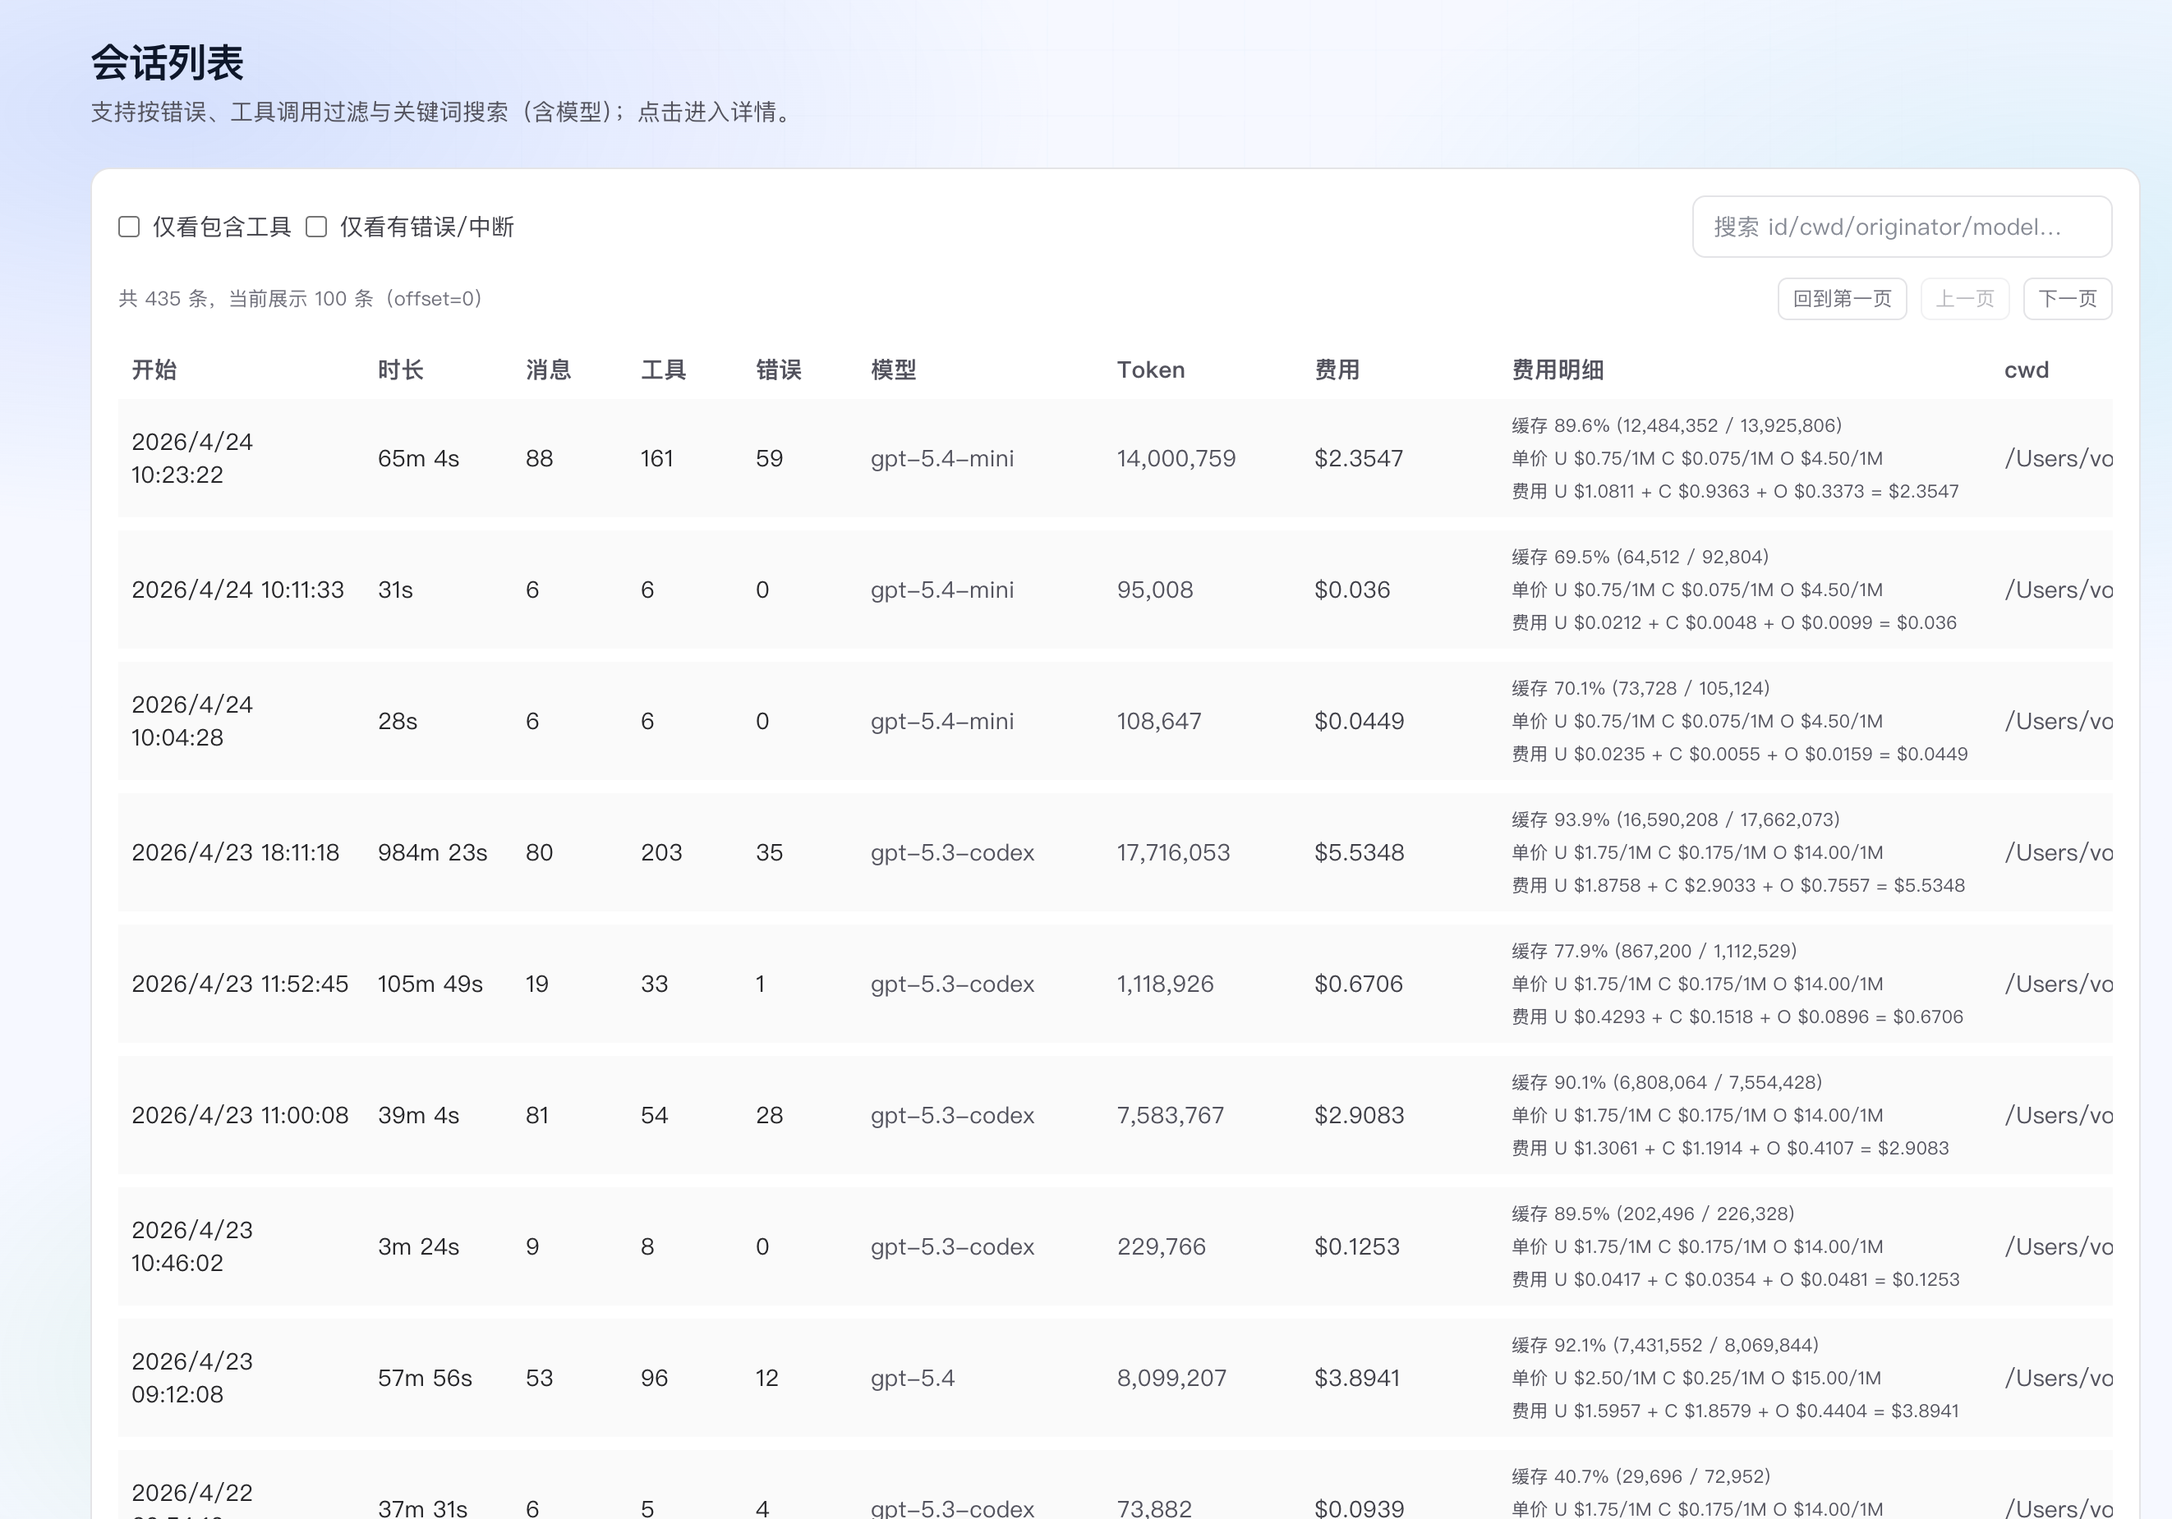
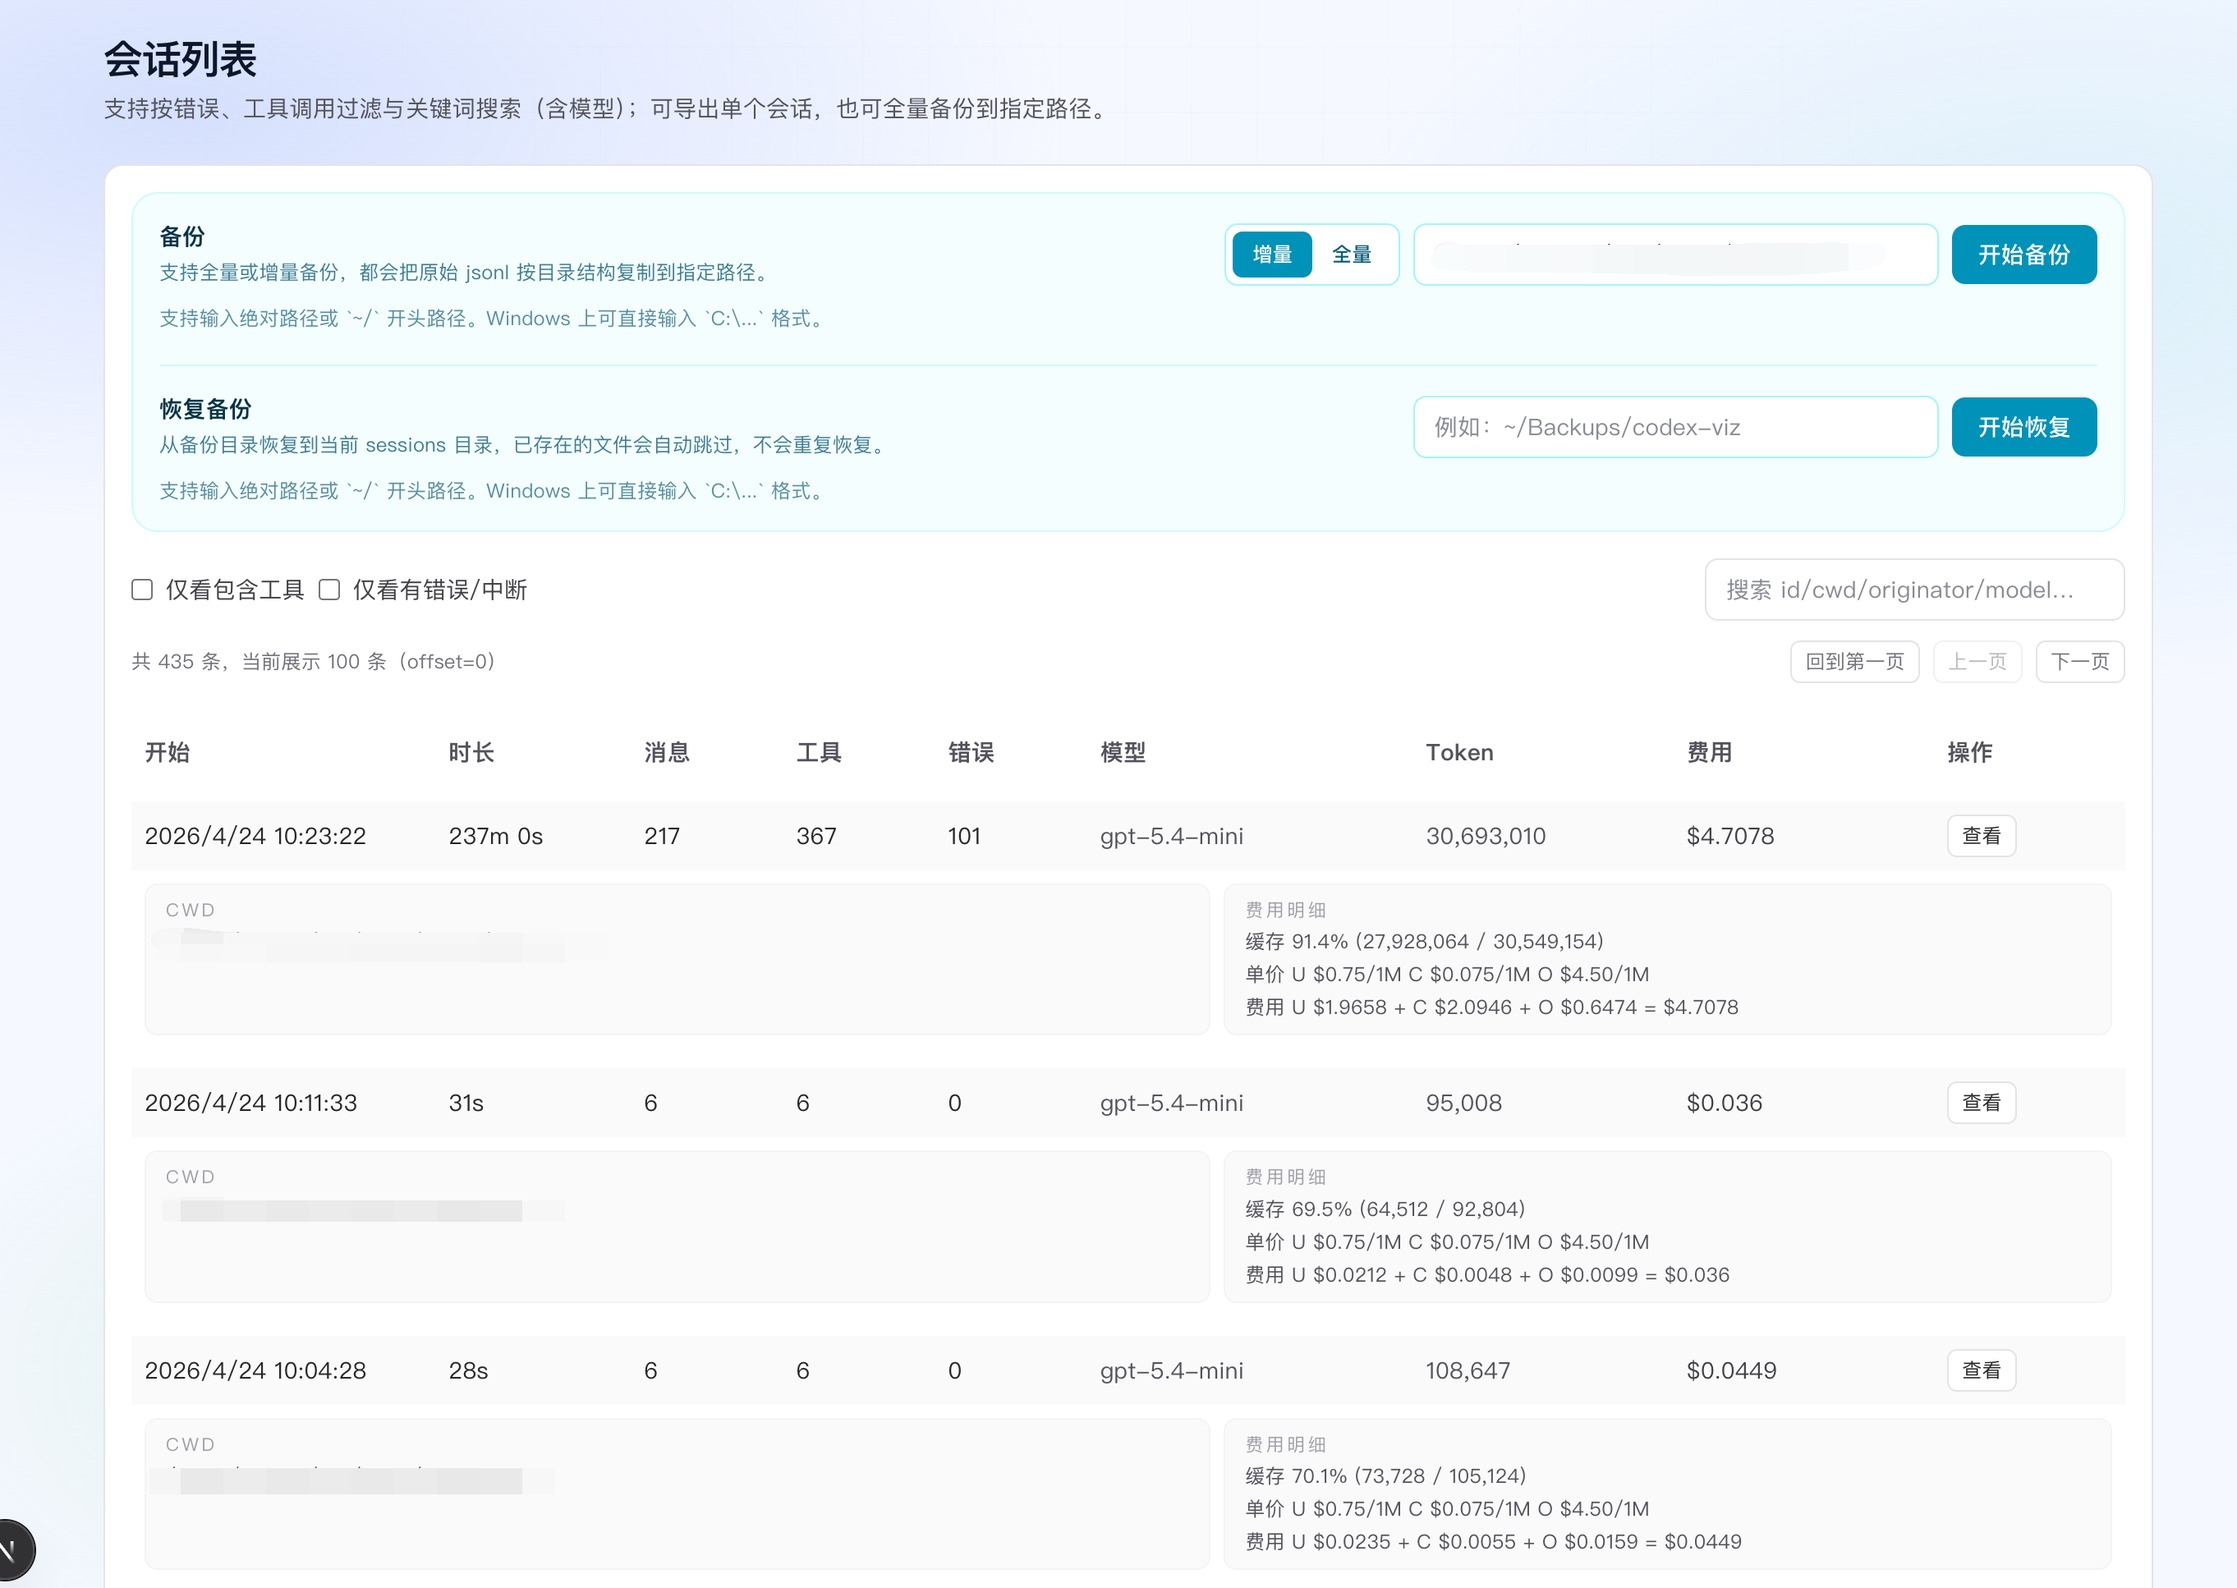
docs: 补充备份说明并更新会话列表

diff --git a/src/components/SessionsTable.tsx b/src/components/SessionsTable.tsx
@@ -1,7 +1,7 @@
 "use client";
 
 import Link from "next/link";
-import { useEffect, useMemo, useState } from "react";
+import { Fragment, useEffect, useMemo, useState } from "react";
 import useSWR from "swr";
 import type {
   SessionBackupResponse,
@@ -367,73 +367,83 @@ export default function SessionsTable() {
       </div>
 
       <div className="mt-3 overflow-x-auto">
-        <table className="min-w-[1500px] w-full table-fixed border-separate border-spacing-y-2 text-sm">
+        <table className="w-full min-w-[980px] table-fixed border-separate border-spacing-y-2 text-sm">
           <thead>
-            <tr className="text-left text-zinc-600">
-              <th className="w-[150px] px-2">开始</th>
-              <th className="w-[90px] px-2">时长</th>
-              <th className="w-[70px] px-2">消息</th>
-              <th className="w-[70px] px-2">工具</th>
-              <th className="w-[70px] px-2">错误</th>
-              <th className="w-[150px] px-2">模型</th>
-              <th className="w-[120px] px-2">Token</th>
-              <th className="w-[120px] px-2">费用</th>
-              <th className="w-[300px] px-2">费用明细</th>
-              <th className="w-[300px] px-2">cwd</th>
-              <th className="w-[88px] px-2">操作</th>
+            <tr className="sticky top-0 z-20 text-left text-zinc-600">
+              <th className="w-[140px] bg-white/95 px-2 py-3 backdrop-blur">开始</th>
+              <th className="w-[90px] bg-white/95 px-2 py-3 backdrop-blur">时长</th>
+              <th className="w-[70px] bg-white/95 px-2 py-3 backdrop-blur">消息</th>
+              <th className="w-[70px] bg-white/95 px-2 py-3 backdrop-blur">工具</th>
+              <th className="w-[70px] bg-white/95 px-2 py-3 backdrop-blur">错误</th>
+              <th className="w-[150px] bg-white/95 px-2 py-3 backdrop-blur">模型</th>
+              <th className="w-[120px] bg-white/95 px-2 py-3 backdrop-blur">Token</th>
+              <th className="w-[120px] bg-white/95 px-2 py-3 backdrop-blur">费用</th>
+              <th className="w-[88px] bg-white/95 px-2 py-3 backdrop-blur">操作</th>
             </tr>
           </thead>
           <tbody>
             {sessions.length === 0 ? (
               <tr>
-                <td className="px-2 py-6 text-zinc-500" colSpan={11}>
+                <td className="px-2 py-6 text-zinc-500" colSpan={9}>
                   没有匹配的会话。
                 </td>
               </tr>
             ) : (
               sessions.map((s: SessionSummary) => (
-                <tr key={s.id} className="rounded-lg bg-zinc-50 text-zinc-800">
-                  <td className="px-2 py-2 tabular-nums">{formatDate(s.startedAt)}</td>
-                  <td className="px-2 py-2 tabular-nums">{formatSec(s.durationSec ?? null)}</td>
-                  <td className="px-2 py-2 tabular-nums">{s.messages ?? 0}</td>
-                  <td className="px-2 py-2 tabular-nums">{s.toolCalls ?? 0}</td>
-                  <td className="px-2 py-2 tabular-nums">{s.errors ?? 0}</td>
-                  <td className="px-2 py-2 max-w-[180px] truncate text-zinc-600">{s.model ?? "—"}</td>
-                  <td className="px-2 py-2 tabular-nums text-zinc-600">{formatTokens(s.tokensTotal)}</td>
-                  <td className="px-2 py-2 tabular-nums text-zinc-700">{formatUsd(s.estimatedCostUsd)}</td>
-                  <td className="px-2 py-2 align-top">
-                    {s.costBreakdown ? (
-                      <div className="space-y-1 break-words text-[11px] leading-4 text-zinc-600">
-                        <div>
-                          缓存 {formatPercent(s.costBreakdown.cachedInputRatio)} ({formatTokens(
-                            s.costBreakdown.cachedInputTokens
-                          )} / {formatTokens(s.tokensInput)})
+                <Fragment key={s.id}>
+                  <tr className="rounded-lg bg-zinc-50 text-zinc-800">
+                    <td className="px-2 py-2 tabular-nums">{formatDate(s.startedAt)}</td>
+                    <td className="px-2 py-2 tabular-nums">{formatSec(s.durationSec ?? null)}</td>
+                    <td className="px-2 py-2 tabular-nums">{s.messages ?? 0}</td>
+                    <td className="px-2 py-2 tabular-nums">{s.toolCalls ?? 0}</td>
+                    <td className="px-2 py-2 tabular-nums">{s.errors ?? 0}</td>
+                    <td className="px-2 py-2 max-w-[180px] truncate text-zinc-600">{s.model ?? "—"}</td>
+                    <td className="px-2 py-2 tabular-nums text-zinc-600">{formatTokens(s.tokensTotal)}</td>
+                    <td className="px-2 py-2 tabular-nums text-zinc-700">{formatUsd(s.estimatedCostUsd)}</td>
+                    <td className="px-2 py-2">
+                      <Link
+                        className="inline-flex whitespace-nowrap rounded-md border border-zinc-200 bg-white px-2 py-1 text-xs hover:bg-zinc-50"
+                        href={`/sessions/${encodeURIComponent(s.id)}`}
+                      >
+                        查看
+                      </Link>
+                    </td>
+                  </tr>
+                  <tr className="bg-white text-zinc-600">
+                    <td className="px-2 pb-3 pt-0 text-xs" colSpan={9}>
+                      <div className="grid gap-2 lg:grid-cols-[minmax(0,1.2fr)_minmax(0,1fr)]">
+                        <div className="rounded-lg border border-zinc-100 bg-zinc-50 px-3 py-2 text-xs break-words">
+                          <div className="mb-1 text-[11px] uppercase tracking-[0.16em] text-zinc-400">cwd</div>
+                          <div className="whitespace-normal break-all text-zinc-700">{s.cwd ?? "—"}</div>
                         </div>
-                        <div>
-                          单价 U {formatUsdPer1M(s.costBreakdown.inputPricePer1M)} C{" "}
-                          {formatUsdPer1M(s.costBreakdown.cachedInputPricePer1M)} O{" "}
-                          {formatUsdPer1M(s.costBreakdown.outputPricePer1M)}
-                        </div>
-                        <div>
-                          费用 U {formatUsd(s.costBreakdown.nonCachedInputCostUsd)} + C{" "}
-                          {formatUsd(s.costBreakdown.cachedInputCostUsd)} + O{" "}
-                          {formatUsd(s.costBreakdown.outputCostUsd)} = {formatUsd(s.costBreakdown.totalCostUsd)}
+                        <div className="rounded-lg border border-zinc-100 bg-zinc-50 px-3 py-2 text-xs break-words">
+                          <div className="mb-1 text-[11px] uppercase tracking-[0.16em] text-zinc-400">费用明细</div>
+                          {s.costBreakdown ? (
+                            <div className="space-y-1 leading-4">
+                              <div>
+                                缓存 {formatPercent(s.costBreakdown.cachedInputRatio)} ({formatTokens(
+                                  s.costBreakdown.cachedInputTokens
+                                )} / {formatTokens(s.tokensInput)})
+                              </div>
+                              <div>
+                                单价 U {formatUsdPer1M(s.costBreakdown.inputPricePer1M)} C{" "}
+                                {formatUsdPer1M(s.costBreakdown.cachedInputPricePer1M)} O{" "}
+                                {formatUsdPer1M(s.costBreakdown.outputPricePer1M)}
+                              </div>
+                              <div>
+                                费用 U {formatUsd(s.costBreakdown.nonCachedInputCostUsd)} + C{" "}
+                                {formatUsd(s.costBreakdown.cachedInputCostUsd)} + O{" "}
+                                {formatUsd(s.costBreakdown.outputCostUsd)} = {formatUsd(s.costBreakdown.totalCostUsd)}
+                              </div>
+                            </div>
+                          ) : (
+                            <span className="text-zinc-400">无公开价格，未统计</span>
+                          )}
                         </div>
                       </div>
-                    ) : (
-                      <span className="text-zinc-400">无公开价格，未统计</span>
-                    )}
-                  </td>
-                  <td className="px-2 py-2 max-w-[320px] truncate text-zinc-600">{s.cwd ?? "—"}</td>
-                  <td className="px-2 py-2">
-                    <Link
-                      className="inline-flex whitespace-nowrap rounded-md border border-zinc-200 bg-white px-2 py-1 text-xs hover:bg-zinc-50"
-                      href={`/sessions/${encodeURIComponent(s.id)}`}
-                    >
-                      查看
-                    </Link>
-                  </td>
-                </tr>
+                    </td>
+                  </tr>
+                </Fragment>
               ))
             )}
           </tbody>

diff --git a/README.md b/README.md
@@ -6,30 +6,47 @@
 </p>
 
 Codex Viz Plus 是基于 [onewesong/codex-viz](https://github.com/onewesong/codex-viz) 改造的本地会话分析面板。
-它继续读取本机 Codex CLI 的 JSONL 历史，同时补上了模型识别、费用估算、今天筛选和更完整的列表信息展示。
+它继续读取本机 Codex CLI 的 JSONL 历史，同时补上了模型识别、费用估算、今天筛选、备份/恢复和更完整的列表信息展示。
 
-如果你想快速看清“今天跑了多少会话”“花了多少 Token”“大概花了多少钱”，这里会比原版更直接。
+如果你想快速看清“今天跑了多少会话”“花了多少 Token”“大概花了多少钱”，同时还能把历史会话备份出去，这里会比原版更直接。
 
-## 新增功能
+## 新增功能 / New Features
 
-- 会话模型识别：从原始 `turn_context.payload.model` 读取模型
-- 会话列表增强：新增模型、Token 总量、费用、费用明细列
-- 费用估算：按输入、缓存输入、输出三段单价拆分计算
-- 今天筛选：首页支持一键切换“看今天 / 看全部”
-- 今天全局联动：首页总览、趋势图、工具榜、词云都能按当天过滤
-- 模型搜索：会话列表搜索支持按模型名匹配
-- 详情增强：会话详情页展示模型和 Token 统计
+- 会话模型识别 / Session model detection：从原始 `turn_context.payload.model` 读取模型
+- 会话列表增强 / Rich session list：新增模型、Token 总量、费用、费用明细列
+- 两行列表布局 / Two-line list layout：主行显示核心信息，第二行显示 `cwd` 和费用拆分
+- 费用估算 / Cost estimation：按输入、缓存输入、输出三段单价拆分计算
+- 今天筛选 / Today filter：首页支持一键切换“看今天 / 看全部”
+- 今天全局联动 / Global today scope：首页总览、趋势图、工具榜、词云都能按当天过滤
+- 模型搜索 / Model search：会话列表搜索支持按模型名匹配
+- 详情增强 / Session details：会话详情页展示模型、Token 统计和费用拆分
+- 备份与恢复 / Backup and restore：支持全量备份、增量备份、恢复备份
+- Windows 路径支持 / Windows path support：备份与恢复都支持 `C:\...` 格式
 
-## 费用怎么算
+## 费用怎么算 / How pricing is calculated
 
-- `缓存了多少` = `tokensCachedInput`
-- `未缓存输入` = `max(tokensInput - tokensCachedInput, 0)`
-- `缓存比例` = `tokensCachedInput / tokensInput`，如果 `tokensInput = 0`，则显示 `—`
-- `缓存价格` = `cached input price / 1M tokens`
-- `没缓存价格` = `input price / 1M tokens`
-- `输出价格` = `output price / 1M tokens`
-- `总费用` = `未缓存输入费用 + 缓存输入费用 + 输出费用`
-- 如果模型没有对应公开价格，则费用显示 `无公开价格，未统计`
+- `缓存了多少` / `Cached input` = `tokensCachedInput`
+- `未缓存输入` / `Non-cached input` = `max(tokensInput - tokensCachedInput, 0)`
+- `缓存比例` / `Cached ratio` = `tokensCachedInput / tokensInput`，如果 `tokensInput = 0`，则显示 `—`
+- `缓存价格` / `Cached input price` = `cached input price / 1M tokens`
+- `没缓存价格` / `Input price` = `input price / 1M tokens`
+- `输出价格` / `Output price` = `output price / 1M tokens`
+- `总费用` / `Total cost` = `未缓存输入费用 + 缓存输入费用 + 输出费用`
+- 如果模型没有对应公开价格，则费用显示 `无公开价格，未统计` / If no public pricing exists for a model, cost is shown as `No public price, not estimated`
+
+## Backup
+
+- `增量备份`：基于上次备份清单对比 `mtime + size`，只复制新增或变更文件
+- `全量备份`：复制当前所有原始 JSONL 文件到目标目录
+- `恢复备份`：恢复时会自动跳过目标中已存在的文件，避免重复恢复
+- 备份和恢复都会保留原始目录结构
+
+## English Notes
+
+- This project is a local session analytics dashboard based on [onewesong/codex-viz](https://github.com/onewesong/codex-viz).
+- It reads Codex CLI JSONL history locally and adds model detection, cost estimation, today scope filtering, and a richer session list.
+- The list view is now two lines per session so core metrics stay visible while `cwd` and cost details remain readable.
+- Backup supports full and incremental modes, and restore skips files that already exist in the destination.
 
 ## 快速开始
 
